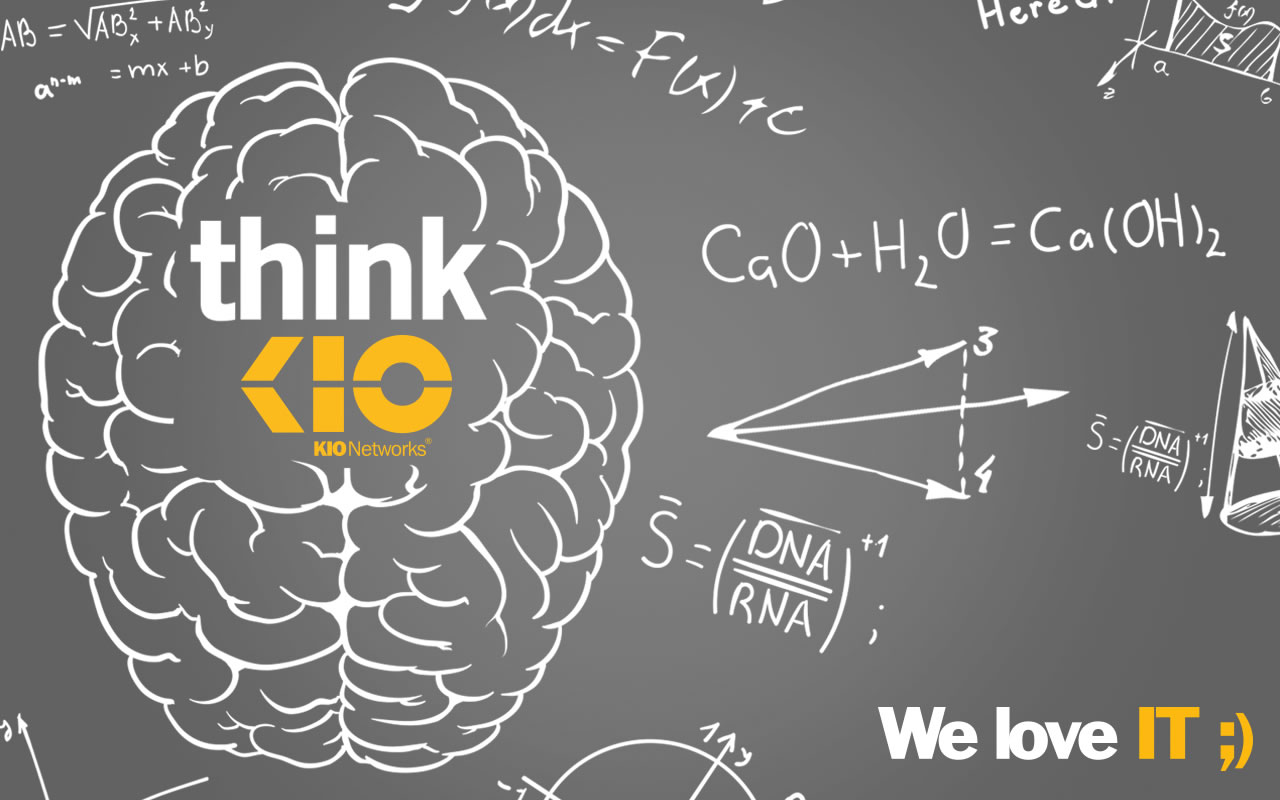
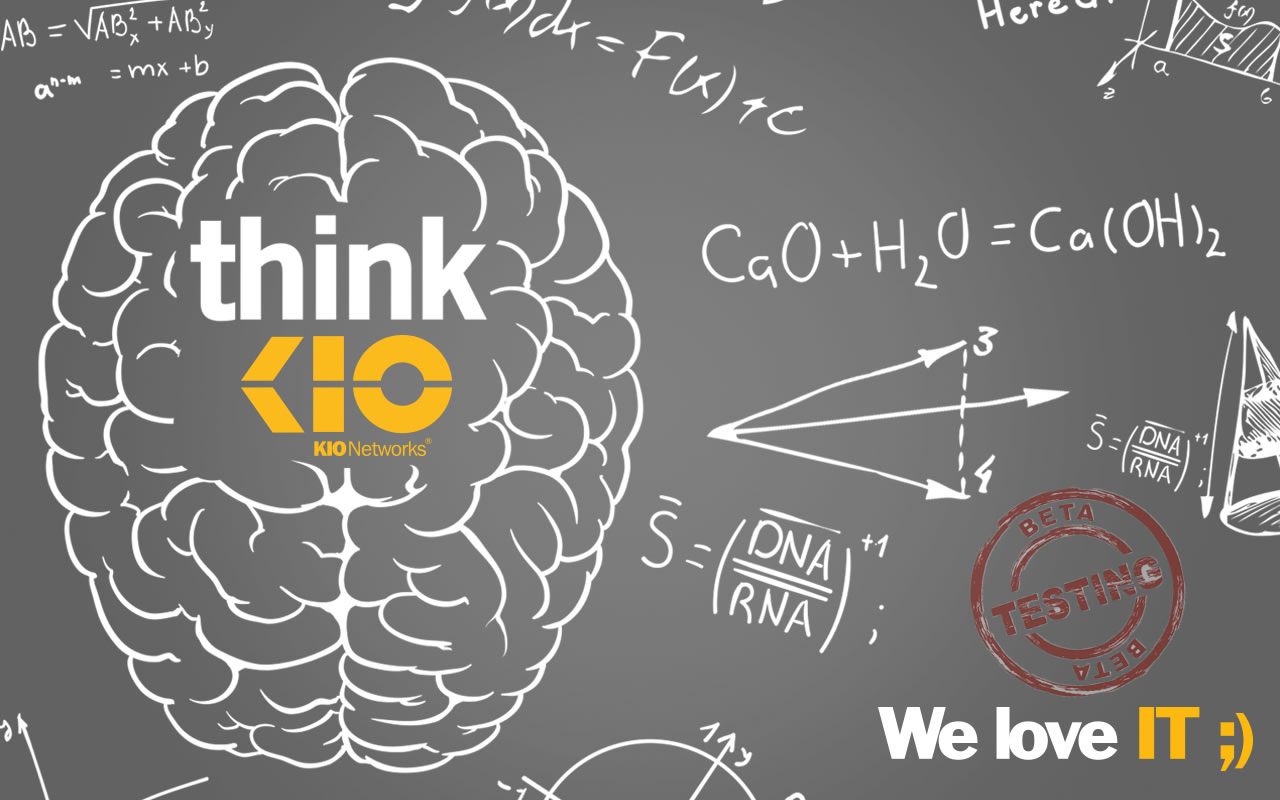
Correciones de estilo
Inputs desabilitados
Fecha de la cabecera corregida
Correcion de estilos de log in
Se agrega el background de TESTING

Changed region(s): [[0.75, 0.5938, 0.9375, 0.875]]

diff --git a/css/estilos.css b/css/estilos.css
@@ -200,6 +200,11 @@ span{
 }
 
 
-td.t_encabezado{
+#encabezado_consulta{
+
+	background-color:#BDBDBD;	
+	color: white;
+	font-weight:bold;
+	text-align: center;
 	
 }

diff --git a/css/log_estilos.css b/css/log_estilos.css
@@ -77,6 +77,7 @@ body{
 
 h1{
 	
+	
 	color: ;
 	font-size: 20px;
 	height: 30px;

diff --git a/llamadas.php b/llamadas.php
@@ -20,6 +20,11 @@
 	<script src="scripts/f_subtipos.js" language="javascript" type="text/javascript"></script>
 	<script src="scripts/validar.js" language="javascript" type="text/javascript"></script>
 <body>
+<style type="text/css">
+ body{background-image:url('images/background.jpg');
+}
+</style>	
+
 <div id="contenido">
 <header>
 	<h1>CAPTURA DE LLAMADAS</h1>
@@ -33,10 +38,10 @@
 	
 		<table class="t_datos">
 			<tr>
-				<td>Fecha:</td><td><input id="date" type="text"></td>
+				<td>Fecha:</td><td><input id="date" type="text" disabled></td>
 			</tr>
 			<tr>
-				<td>Nombre del Agente:</td><td><input value="<?php echo $_SESSION[usuarioactual]?>" type="text"></td>
+				<td>Nombre del Agente:</td><td><input value="<?php echo $_SESSION[usuarioactual]?>" type="text" disabled></td>
 			</tr>
 			</tr>
 		</table>
@@ -50,7 +55,7 @@
 	
 	include_once "conexion.php";
 	session_start();
-	echo "Bienvenido ".$_SESSION["usuarioactual"].", dios te bendiga";
+	echo "Bienvenid@ ".$_SESSION["usuarioactual"].", dios te bendiga";
 	 if ($_POST['CerrarSesion']) 
 		{
 		session_destroy();
@@ -113,7 +118,8 @@
 <script type="text/javascript">
 
 	var f = new Date();
-	document.getElementById('date').value=f.getFullYear()+"-"+f.getMonth()+"-"+f.getDate();
+
+	document.getElementById('date').value=f.getFullYear()+"-"+(f.getMonth()+1)+"-"+f.getDate();
 
 
 </script>

diff --git a/control.php b/control.php
@@ -1,6 +1,8 @@
 <?php
 // Conectando, seleccionando la base de datos
-		$link = mysql_connect('localhost', 'root', '')
+		
+    
+    $link = mysql_connect('localhost', 'root', '')
     	or die('No se pudo conectar: ' . mysql_error());
 
 		mysql_select_db('prueba') or die('No se pudo seleccionar la base de datos'); //BD PRUEBAS
